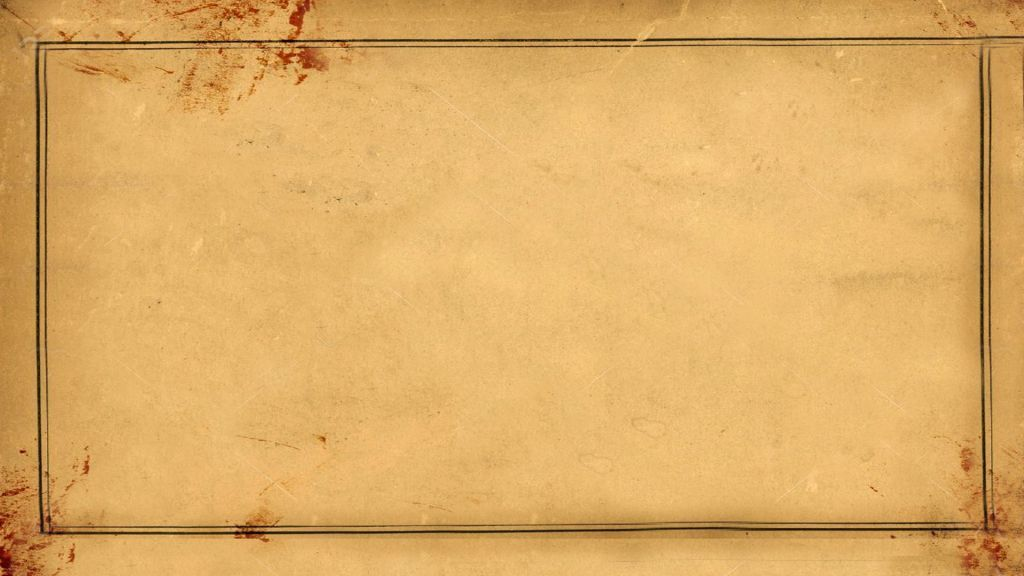
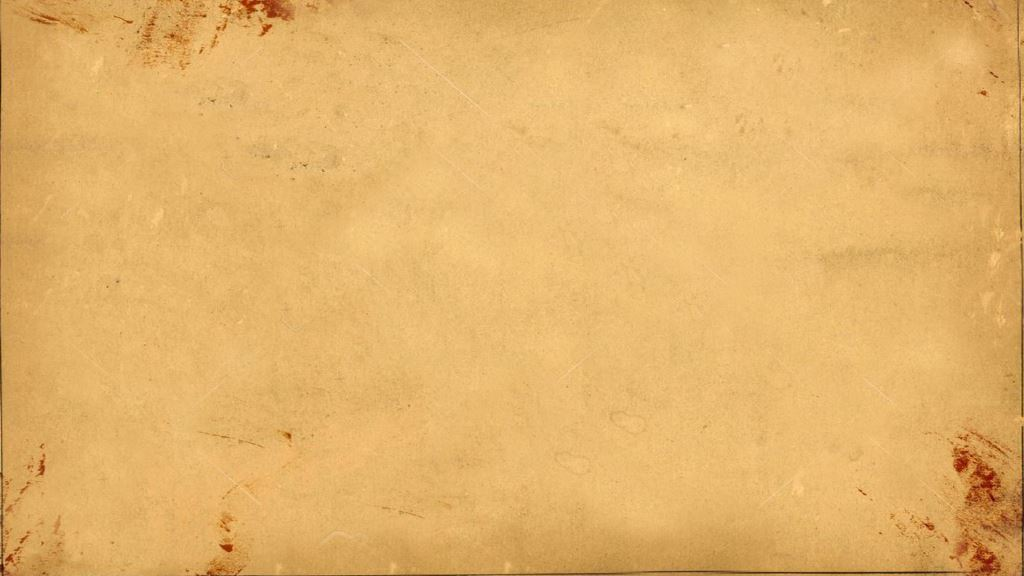
ui improvements

Changed region(s): [[0.0, 0.0, 1.0, 1.0], [0.25, 0.75, 0.3438, 0.7812], [0.7812, 0.0, 0.8125, 0.0312]]

diff --git a/com/myappstack/gball/actors/Weapon.java b/com/myappstack/gball/actors/Weapon.java
@@ -10,6 +10,7 @@ import com.badlogic.gdx.math.Rectangle;
 import com.badlogic.gdx.math.Vector2;
 import com.badlogic.gdx.physics.box2d.World;
 import com.badlogic.gdx.scenes.scene2d.Actor;
+import com.badlogic.gdx.utils.TimeUtils;
 import com.myappstack.gball.utils.Constants;
 import com.myappstack.gball.utils.WorldUtils;
 import com.badlogic.gdx.scenes.scene2d.ui.Image;
@@ -23,7 +24,9 @@ public class Weapon extends Actor
     private Sprite sprite;
     private Sprite active;
     private Sprite normal;
-    private boolean isPicked, canChangeScore1;
+    private boolean isPicked, canChangeScore1, hasEffect;
+
+    private Sprite effect;
 
     Circle bounds;
     public static enum WeaponType {
@@ -36,7 +39,7 @@ public class Weapon extends Actor
     private int xVal;
     private int yVal;
     Vector2 dims;
-    Texture actveT, normalT;
+    Texture actveT, normalT, effectT;
 
     public Weapon(World world,OrthographicCamera camera,WeaponType type,Vector2 pos, Vector2 dims)
     {
@@ -48,6 +51,7 @@ public class Weapon extends Actor
         this.canChangeScore1 = false;
         this.bounds = new Circle();
 
+
         //dims = WorldUtils.viewportToScreen(new Vector2(Constants.FOOD_WIDTH, Constants.FOOD_HEIGHT), camera);
         //pos = WorldUtils.viewportToScreen(new Vector2(x,y), camera);
         Texture t = null;
@@ -55,11 +59,23 @@ public class Weapon extends Actor
         {
             actveT = new Texture(Gdx.files.internal("flamethrower1.png"));
             normalT = new Texture(Gdx.files.internal("flamethrowe2.png"));
+            effectT = new Texture(Gdx.files.internal("fire_eff.png"));
+            this.hasEffect = true;
+
+            effect = new Sprite(effectT);
+            effect.setPosition(dims.x/2,dims.y/2);
+            effect.setSize(dims.x,dims.y);
         }
         else if(this.type == WeaponType.ELECTRIC)
         {
             actveT = new Texture(Gdx.files.internal("electric1.png"));
             normalT = new Texture(Gdx.files.internal("electric2.png"));
+            effectT = new Texture(Gdx.files.internal("shock.png"));
+            this.hasEffect = true;
+
+            effect = new Sprite(effectT);
+            effect.setPosition(dims.x/2,pos.y-dims.y/2);
+            effect.setSize(dims.x,dims.y);
         }
         else if(this.type == WeaponType.SPIKE)
         {
@@ -120,6 +136,10 @@ public class Weapon extends Actor
         }
         else{
             normal.draw(batch);
+        }
+
+        if(this.hasEffect && this.isActive()){
+            effect.draw(batch);
         }
     }
 }

diff --git a/com/myappstack/gball/stage/GameStage.java b/com/myappstack/gball/stage/GameStage.java
@@ -252,11 +252,12 @@ public class GameStage extends Stage {
 		
 		table = new Table();
 		//table.setDebug(true);
-		table.setSize(dims.x, dims.y);
-		table.setPosition(pos.x, pos.y);
+		table.setSize(screenDims.x, dims.y);
+		table.setPosition(0, pos.y);
 		//table.center();
-		table.add(scoreLabel).expandX().align(Align.right).height(dims.y);
-		table.add(timeLabel).expandX().height(dims.y);
+		table.add(timeLabel).expandX().align(Align.center).height(dims.y);
+		table.add(scoreLabel).expandX().align(Align.center).height(dims.y);
+
 		
 		addActor(table);
 

diff --git a/com/myappstack/gball/actors/BgGameStage.java b/com/myappstack/gball/actors/BgGameStage.java
@@ -30,10 +30,10 @@ public class BgGameStage extends Actor{
 		//bg= new Texture( pixmap );
 		bg = new Texture(Gdx.files.internal("planb.jpg"));
 
-		bottomY = margins.y;
-		leftX = margins.y;
-		width = screenDims.x - 2*margins.y;
-		height= screenDims.y - margins.x - margins.y;
+		bottomY = 0;
+		leftX = 0;
+		width = screenDims.x;
+		height= screenDims.y;
 	}
 
 	@Override
